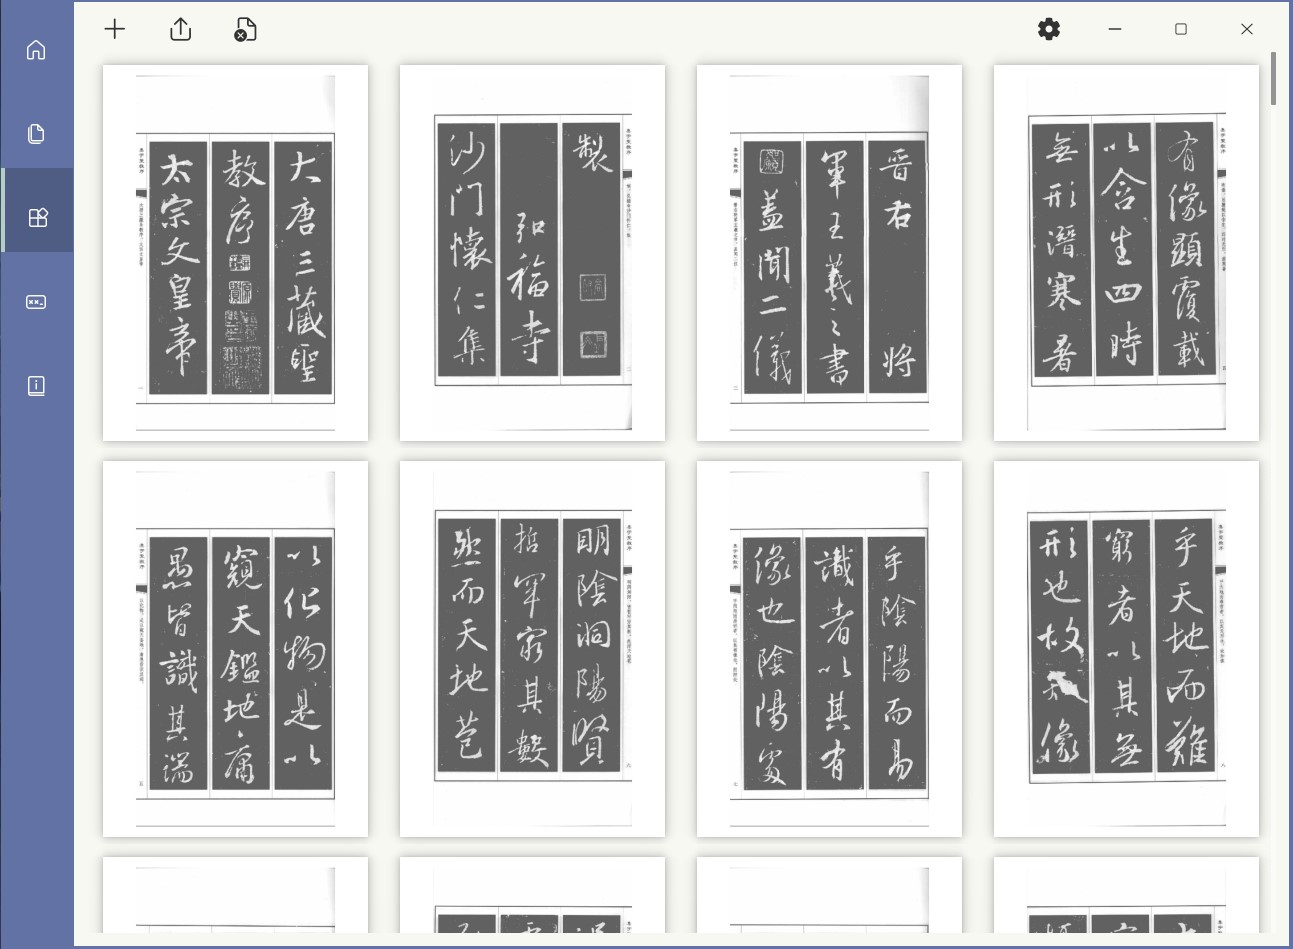
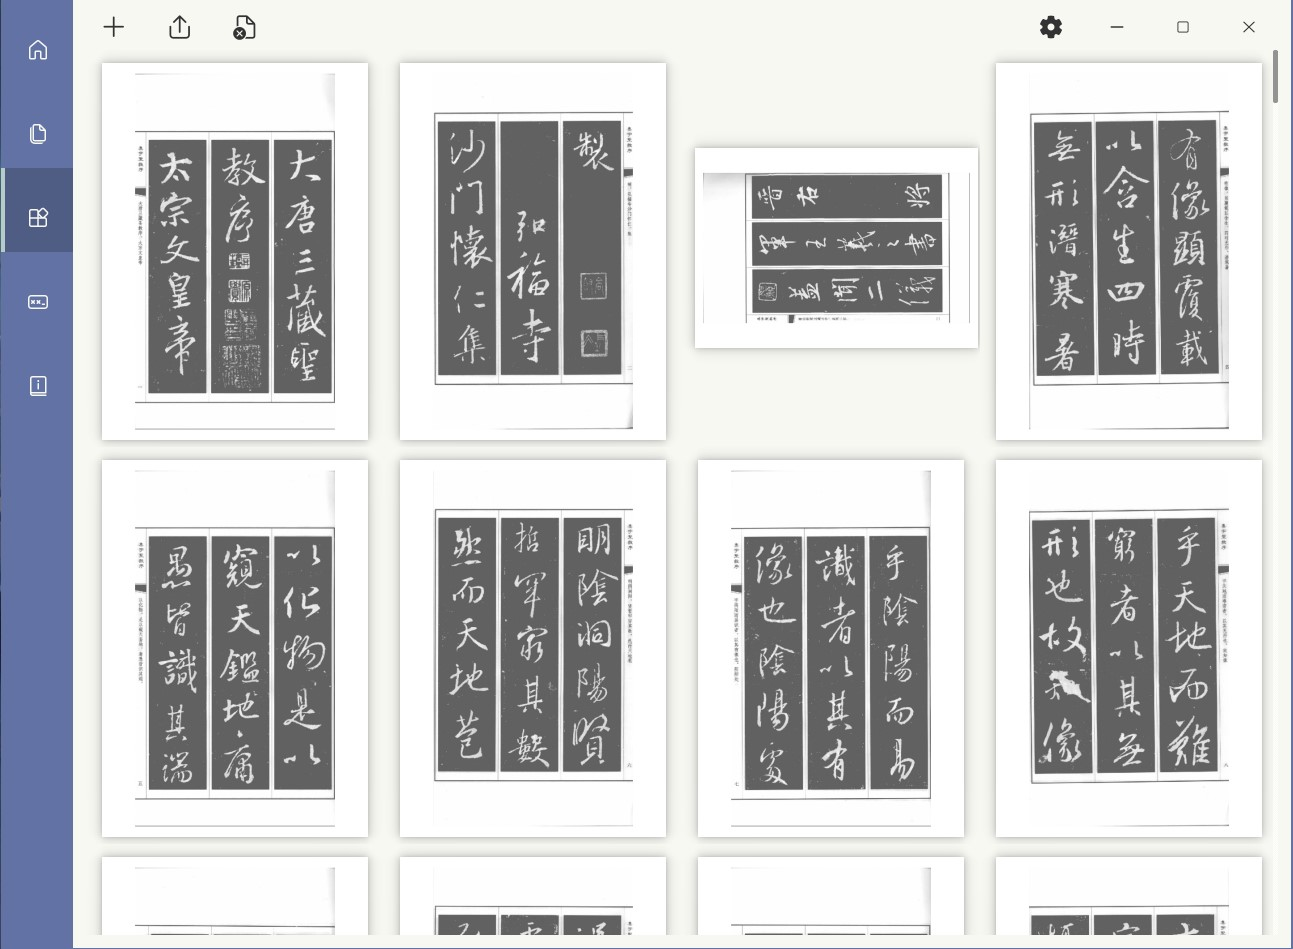
add new function
update
2021-10-20

diff --git a/scripts/functions.py b/scripts/functions.py
@@ -26,6 +26,7 @@ class Doc(fitz.Document):
     def __init__(self, *args):
         super(Doc, self).__init__(*args)
         self.pass_word = None
+        self.rotatedPages = dict()
 
 
 def copy(doc: Doc) -> Doc:
@@ -39,6 +40,10 @@ def copy(doc: Doc) -> Doc:
     if doc.pass_word is not None:
         _doc.authenticate(doc.pass_word)
     _doc.name = doc.name
+    _doc.rotatedPages = doc.rotatedPages
+    if len(_doc.rotatedPages) != 0:
+        for page in _doc.rotatedPages:
+            _doc[page].set_rotation(_doc.rotatedPages[page])
     return _doc
 
 
@@ -402,7 +407,7 @@ def generate_menu(pos,
 
     :param pos: position
     :param select: select=0 => only delete;
-                   select=1 => with save as
+                   select=1 => with other functions
     :param widget: widget
     :param main: main
     :return: None
@@ -418,7 +423,7 @@ def generate_menu(pos,
             QtGui.QIcon('ico\\delete.svg'),
             MENU_L[main.language][0],
         )
-        item2, item3, item4 = None, None, None
+        item2, item3, item4, item5, item6 = None, None, None, None, None
         if select == 0:
             item3 = menu.addAction(
                 QtGui.QIcon('ico\\view.svg'),
@@ -432,6 +437,14 @@ def generate_menu(pos,
             item4 = menu.addAction(
                 QtGui.QIcon('ico\\Photo.svg'),
                 MENU_L[main.language][3],
+            )
+            item5 = menu.addAction(
+                QtGui.QIcon('ico\\rotate_clockwise.svg'),
+                MENU_L[main.language][4],
+            )
+            item6 = menu.addAction(
+                QtGui.QIcon('ico\\rotate_anticlockwise.svg'),
+                MENU_L[main.language][5],
             )
         action = menu.exec_(
             widget.table.mapToGlobal(pos),
@@ -452,6 +465,18 @@ def generate_menu(pos,
                 index=index,
                 widget=widget,
                 main=main,
+            )
+        if action == item5 and select == 1:
+            rotate_page(
+                index=index,
+                degree=90,
+                widget=widget,
+            )
+        if action == item6 and select == 1:
+            rotate_page(
+                index=index,
+                degree=-90,
+                widget=widget,
             )
         if action == item3 and select == 0:
             main._view(index, widget)
@@ -583,6 +608,28 @@ def extract_img(index: int,
         ),
         QMessageBox.Yes,
     )
+
+
+def rotate_page(index: int,
+                degree: int,
+                widget: QWidget) -> None:
+    """
+    rotate page
+
+    :param index: index of the page
+    :param degree: rotate degrees
+    :param widget: widget
+    :return: None
+    """
+    page_index = widget.book_list[index]
+    if page_index in widget.book.rotatedPages:
+        degree += widget.book.rotatedPages[page_index]
+        widget.book[page_index].set_rotation(degree)
+    else:
+        widget.book[page_index].set_rotation(degree)
+    widget.book.rotatedPages[page_index] = degree
+    widget.table.clearContents()
+    set_icon(widget)
 
 
 def choose(widget: QtWidgets.QLineEdit,

diff --git a/scripts/language.py b/scripts/language.py
@@ -27,7 +27,7 @@ LAB_L4 = {
 LAB_LS = {
     "English": ['START DIR', 'SAVE DIR', 'OPEN AS PREVIOUS'],
     "中文": ['開啓路徑', '保存路徑', '記住先前的路徑'],
-    "日本語": ['開くルーチング', '保存する~', '前使ったルーチングを覚える']
+    "日本語": ['開くルーチング', '保存するルーチング', '前使ったルーチングを覚える']
 }
 LAB_LP = {
     "English": ['Enable Print', 'Enable Modifying File',
@@ -42,9 +42,9 @@ LAB_LP = {
             'ページ編集を許可にする', 'HDプリントを許可にする']
 }
 MENU_L = {
-    "English": ['delete', 'view', 'save as', 'extract images'],
-    "中文": ['刪除', '檢視', '另存新檔', '提取圖片'],
-    "日本語": ['削除', 'ビュー', '名前を付けて保存', 'イメージを出す']
+    "English": ['delete', 'view', 'save as', 'extract images', 'rotate 90°', 'rotate -90°'],
+    "中文": ['刪除', '檢視', '另存新檔', '提取圖片', '旋轉90°', '旋轉-90°'],
+    "日本語": ['削除', 'ビュー', '名前を付けて保存', 'イメージを出す', '90°を旋転する', '‐90°を旋転する']
 }
 LINE_L = {
     "English": ['    user password here',

diff --git a/scripts/styleSheets.py b/scripts/styleSheets.py
@@ -6,6 +6,7 @@ COMP_COLOUR_2 = '#ca8fc0'
 LIGHT_COLOUR = '#f8f8f2'
 DARK_COLOUR = '#4f5c84'
 TEXT_COLOUR = '#1b124b'
+WELCOME_PAGE = 'ico/bkg.svg'
 TAB_STYLE = f'''
         QTabBar::tab{{
         border-left:4px solid {MAIN_COLOUR};
@@ -254,4 +255,3 @@ SCROLL_AREA_STYlE = f'''
         QScrollBar::add-page:vertical,QScrollBar::sub-page:vertical{{
         background:none}}
         '''
-WELCOME_PAGE = 'ico/bkg.svg'

diff --git a/scripts/__init__.py b/scripts/__init__.py
@@ -16,6 +16,6 @@ else:
     __system__ = _system
 
 __author__ = 'Nianze A. TAO (Omozawa SUENO)'
-__version__ = 'v1.6.1'
+__version__ = 'v1.7'
 __all__ = ['__main__', '__system__', '__version__']
 # --------------完成！2021年八月十日に--------------

diff --git a/README.md b/README.md
@@ -2,13 +2,13 @@
 
 This project is based on PyQt5 and PyMuPDF and tested on Python 3.8.6 & 3.9.7 on Windows 10.
 
-Current version is v1.6.1
+Current version is v1.7
 
 ## Welcome
 
 <img src=".\ico\pdf icon.svg" width="40" />
 
-Welcome to use pyPDFeditor-GUI. pyPDFeditor-GUI is a simple cross-platform application, thanks to [Python](https://www.python.org/), [PyQt5](https://www.riverbankcomputing.com/software/pyqt/) and [PyMuPDF](https://github.com/pymupdf/PyMuPDF), designed to work on simple PDF handling including merging files, organising pages, saving page as image, extracting images from page, setting passwords (user or/and owner password), and adding watermarks.
+Welcome to use pyPDFeditor-GUI. pyPDFeditor-GUI is a simple cross-platform application, thanks to [Python](https://www.python.org/), [PyQt5](https://www.riverbankcomputing.com/software/pyqt/) and [PyMuPDF](https://github.com/pymupdf/PyMuPDF), designed to work on simple PDF handling including merging files, organising pages, saving page as image, extracting images from page, setting passwords (user or/and owner password), rotating pages, and adding watermarks.
 
 I tried my best to make it close to Fluent UI. Icons used can be found [here](https://fluenticons.co/). 
 
